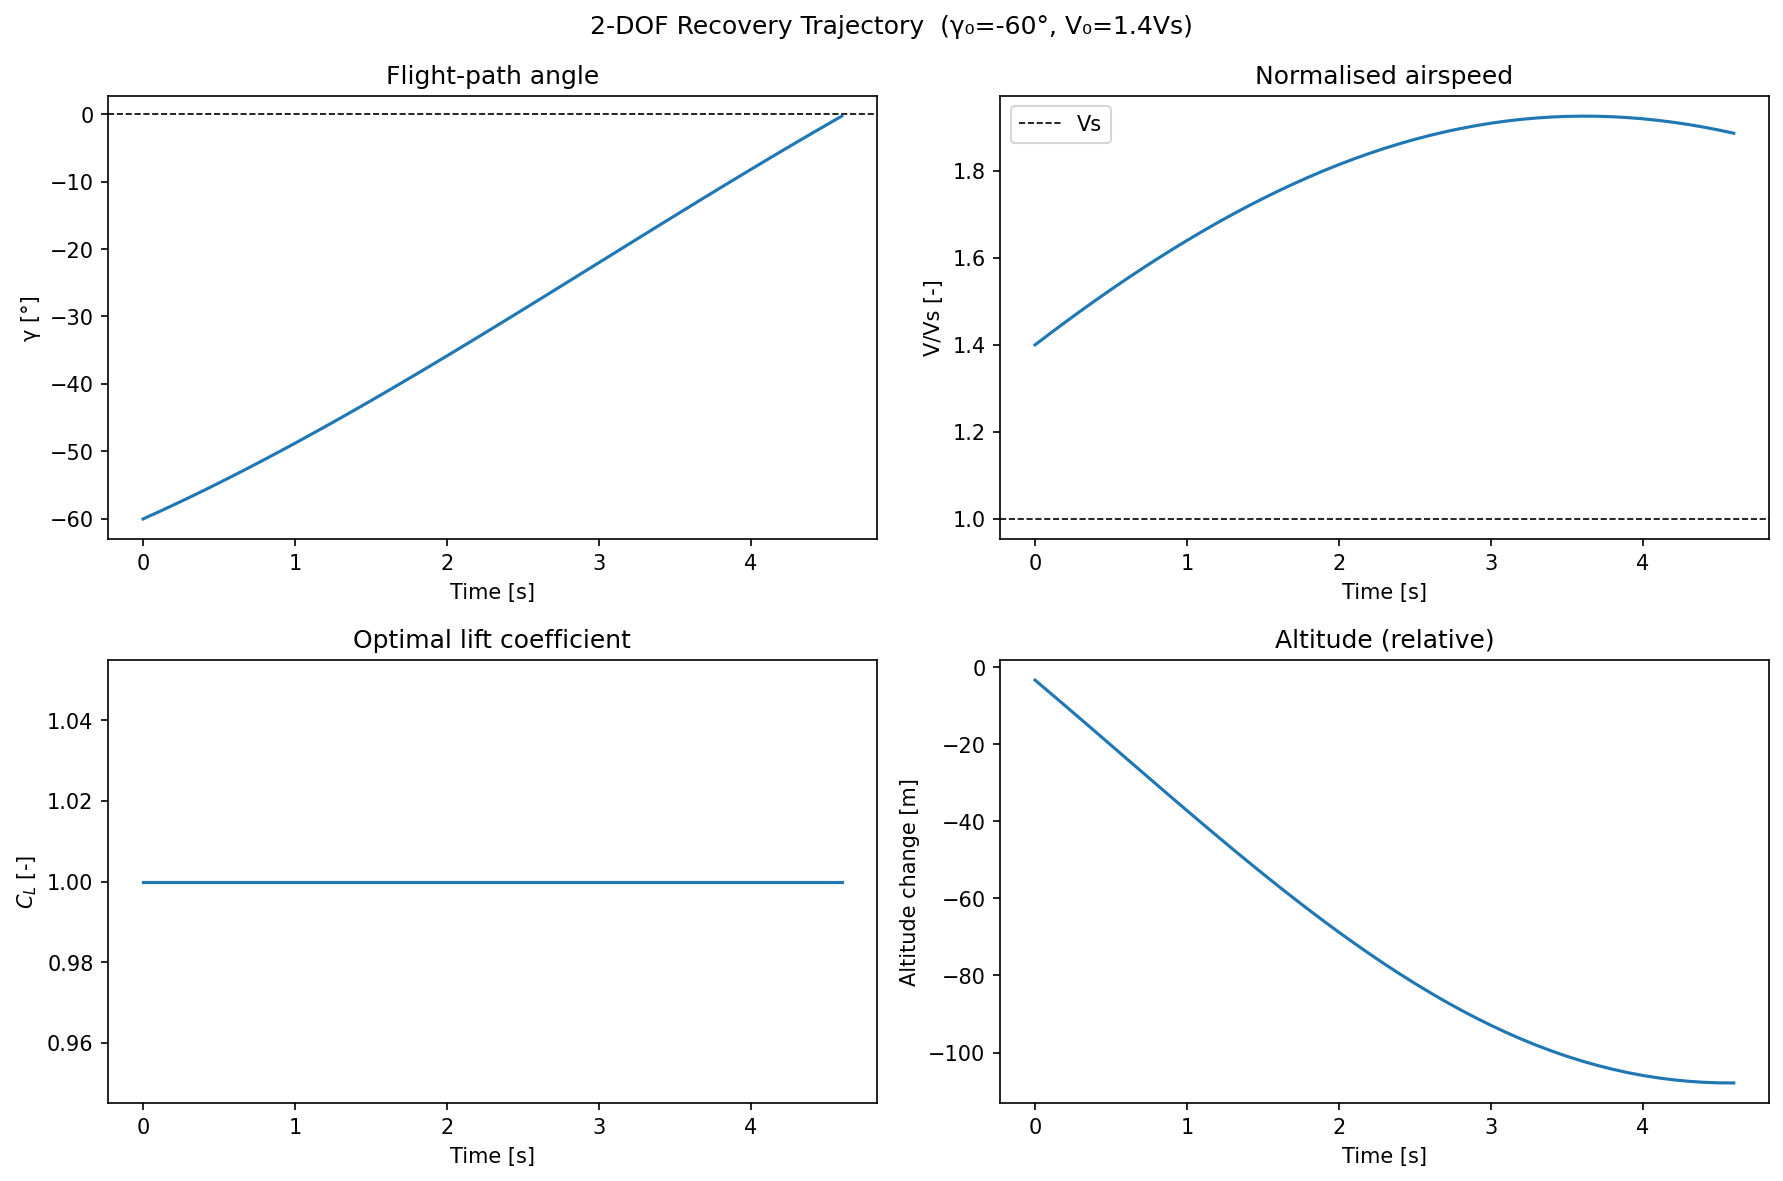
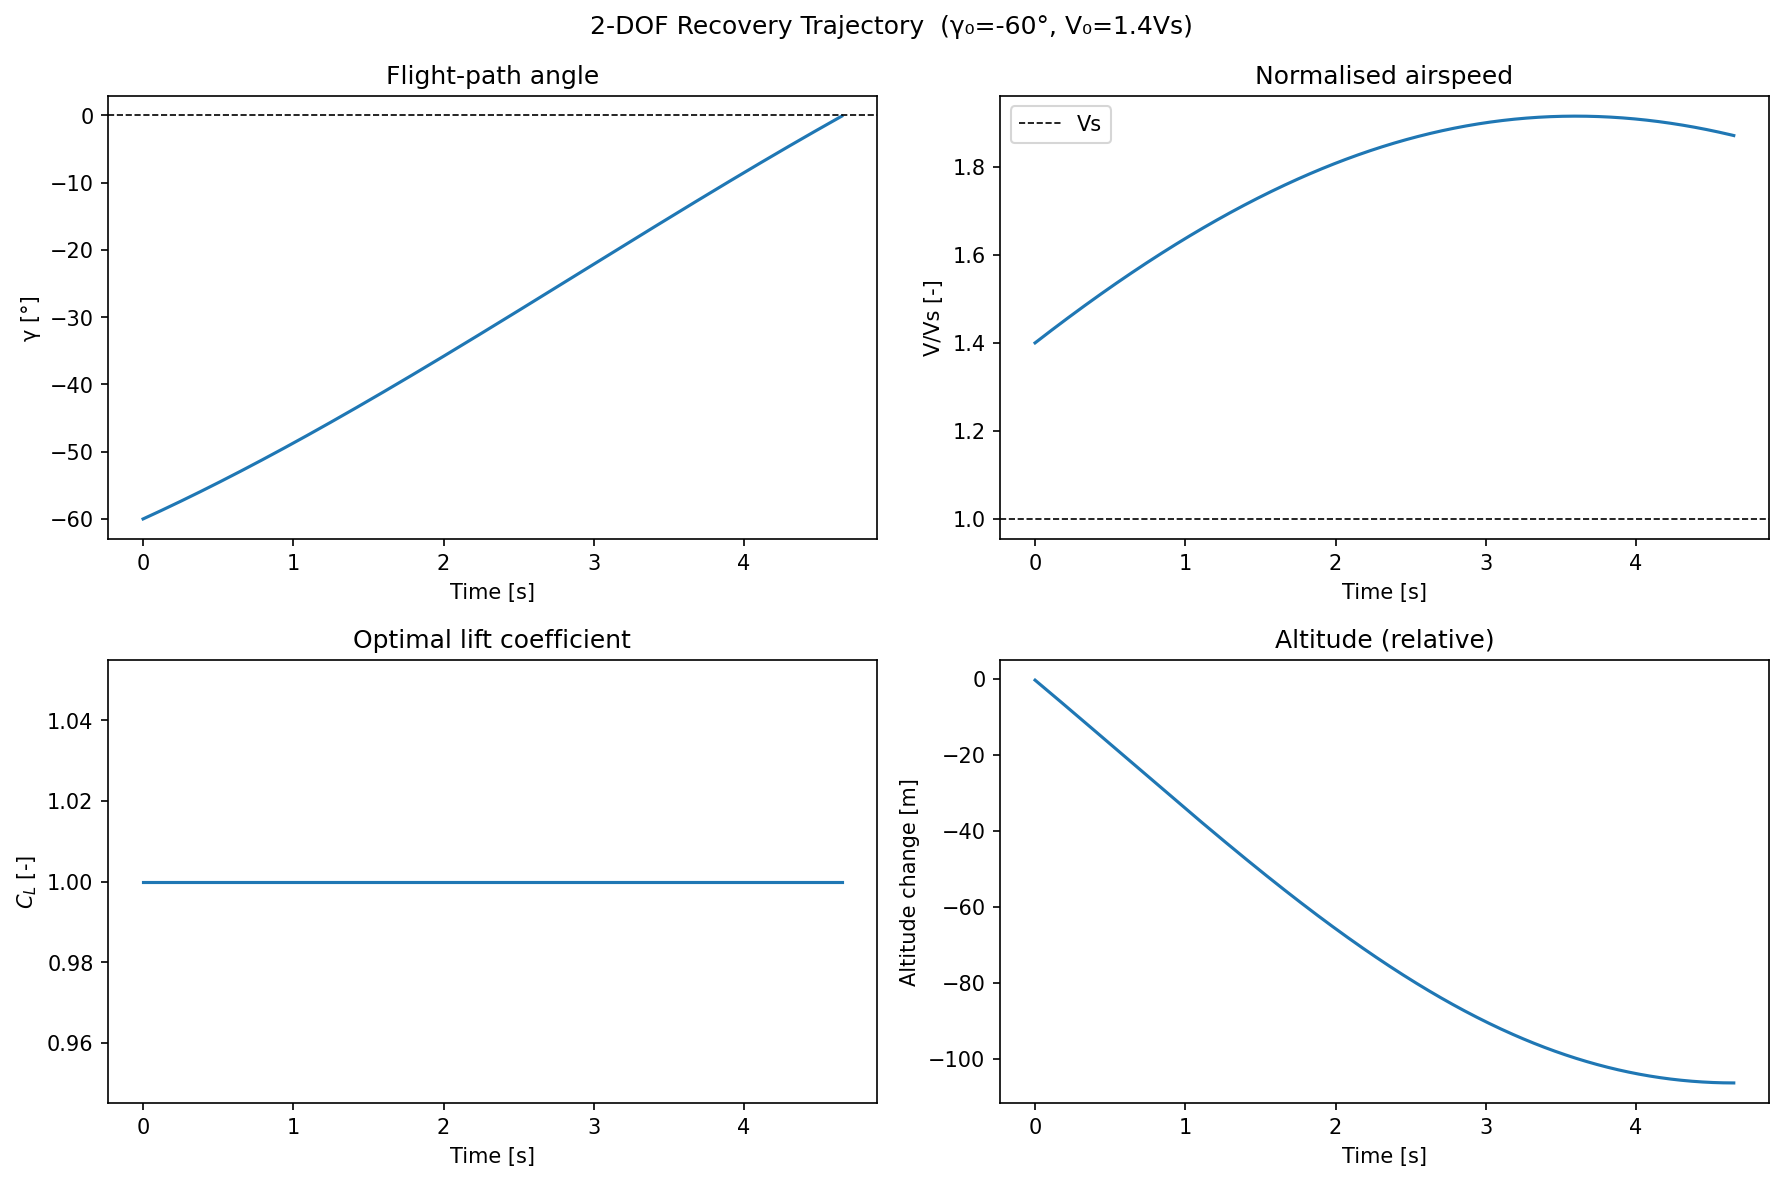
insert plot in the readme

diff --git a/aircraft/grumman.py b/aircraft/grumman.py
@@ -11,7 +11,7 @@ class Grumman:
         ######################
         ### Sim parameters ###
         ######################
-        self.TIME_STEP = 0.1
+        self.TIME_STEP = 0.01
         self.GRAVITY = 9.81
         self.AIR_DENSITY = 1.225  # Density  (ρ)  [kg/m3]
 

diff --git a/README.md b/README.md
@@ -126,7 +126,7 @@ with $\alpha_s = 15°$.
 
 ### Minimum Altitude Loss
 
-![Minimum Altitude Loss Heatmap](results/ReducedSymmetricGliderPullout_L3_heatmaps.png)
+![Minimum Altitude Loss Heatmap](results/ReducedSymmetricGliderPullout_L2_heatmaps.png)
 
 Minimum expected altitude loss [m] as a function of initial flight path angle $\gamma$ and
 initial normalized airspeed $V/V_s$, computed with the level-3 grid (~24 k states).
